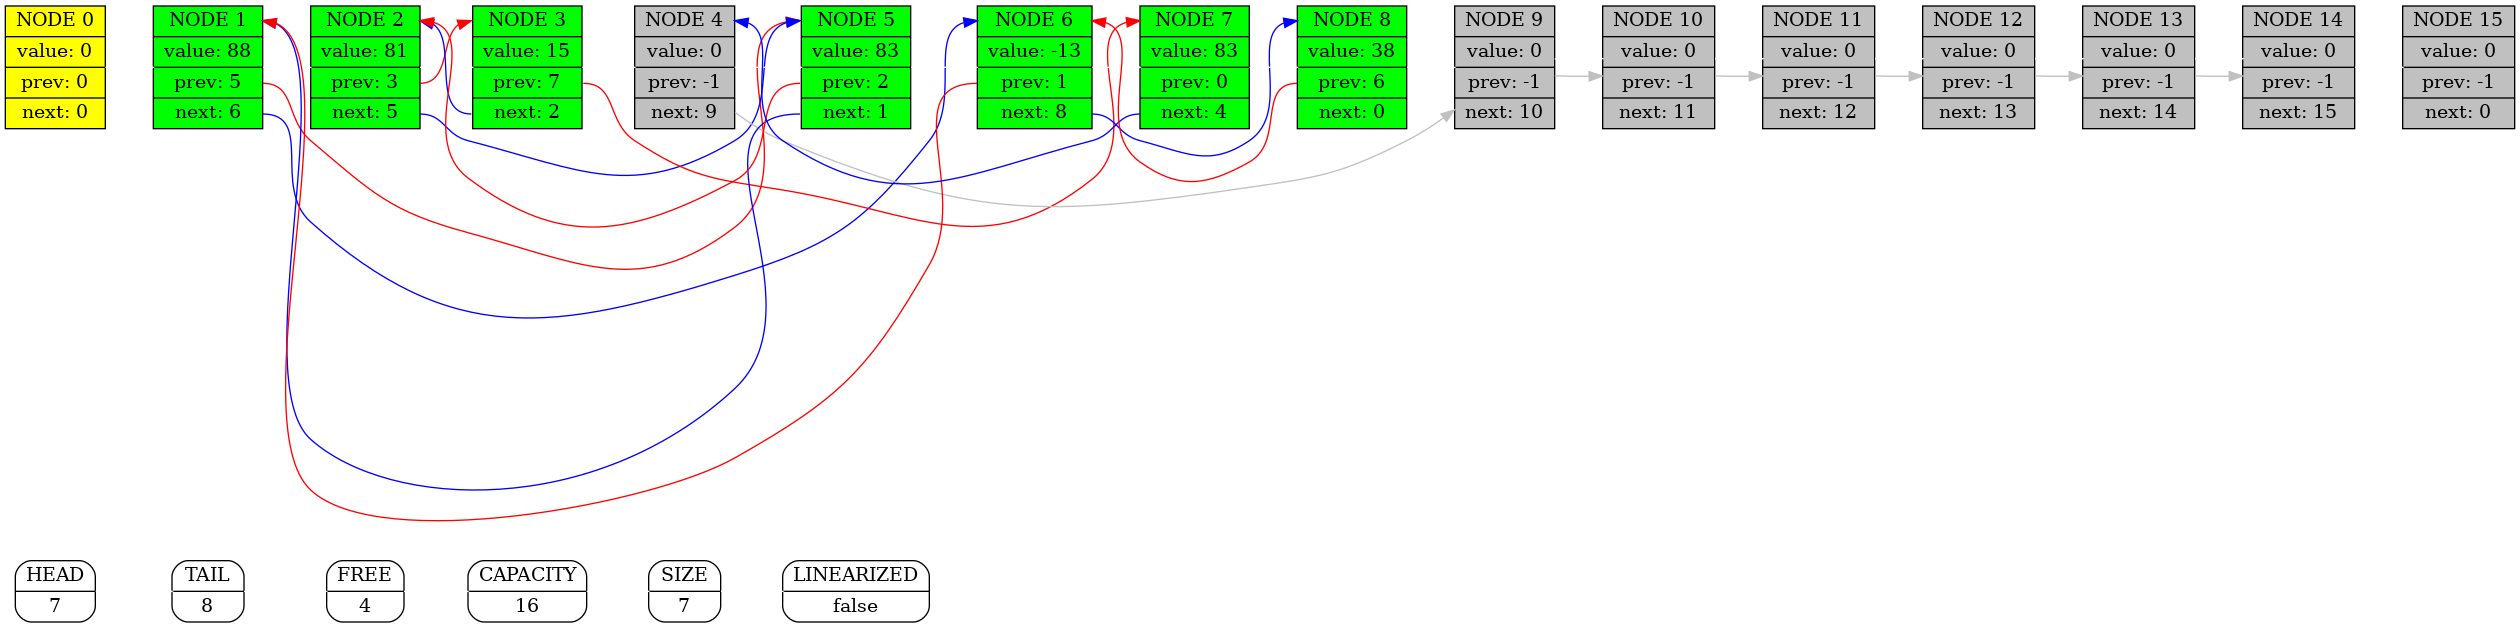
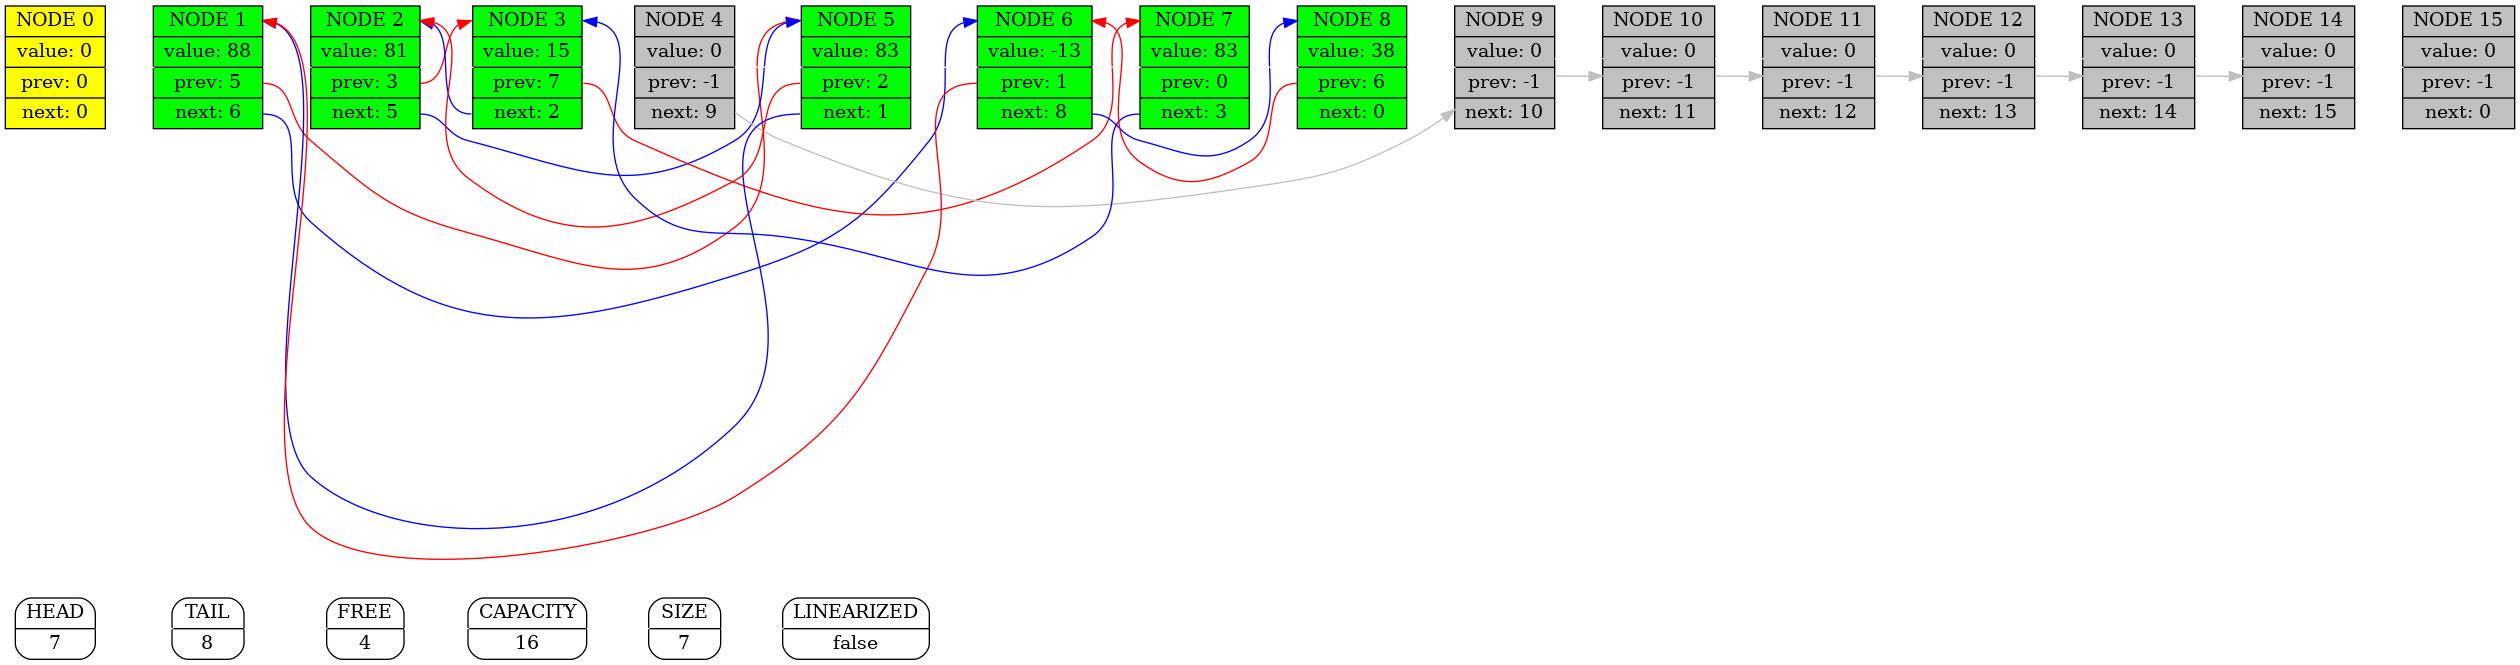
Error with deleting fixed

diff --git a/src/List.c b/src/List.c
@@ -323,7 +323,11 @@ int Verificator (const struct List *list)
             MY_ASSERT (false, "struct List list", UNEXP_VAL, ERROR);
 
         if (i != list->prev[list->next[i]])
+        {
+            printf ("i = %d\n", i);
             MY_ASSERT (false, "struct List list", UNEXP_VAL, ERROR);
+        }
+            
     }
 
     if (i == list->tail)
@@ -372,7 +376,7 @@ int Delete (struct List *list, const int position)
     if (position == list->tail)
         list->head = list->next[position];
     else
-        list->prev[last_next] = last_prev;
+        list->next[last_prev] = last_next;
 
     list->size--;
 

diff --git a/src/main.c b/src/main.c
@@ -19,15 +19,13 @@ int main (void)
     Delete (list, 4);
     #endif
 
-    #if 0
     if (Verificator (list) == ERROR)
     {
         List_Dump (list);
         return ERROR;
     }
 
-    List_Linearisation (list);
-    #endif
+    //List_Linearisation (list);
 
     List_Dump (list);
 
